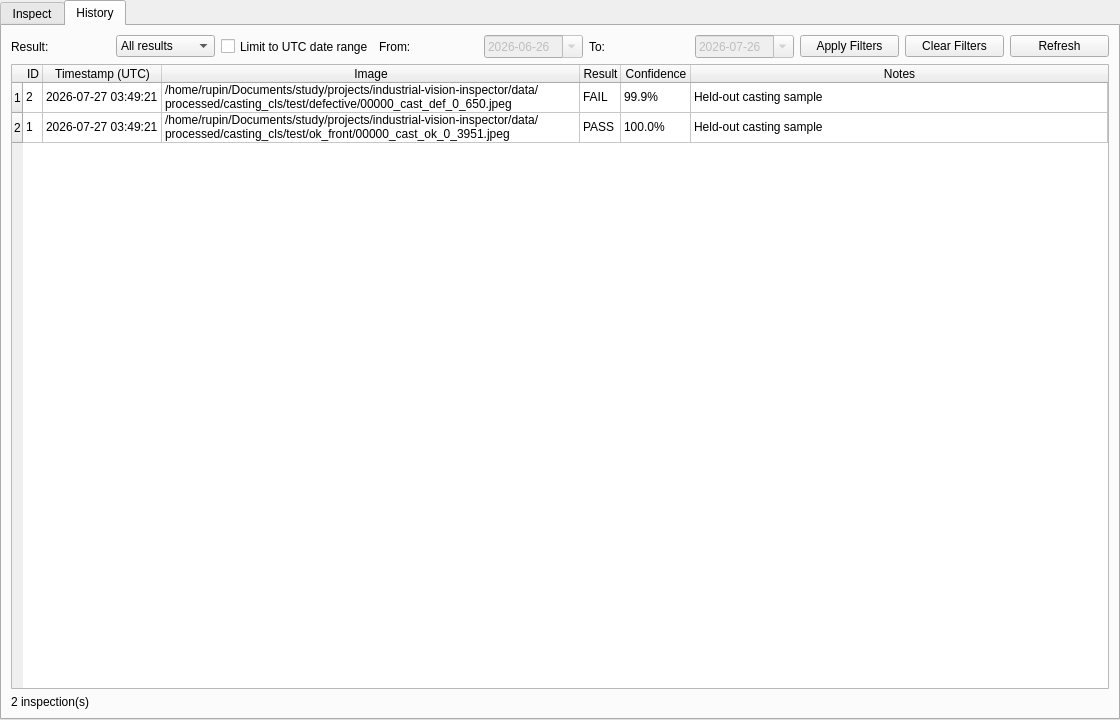
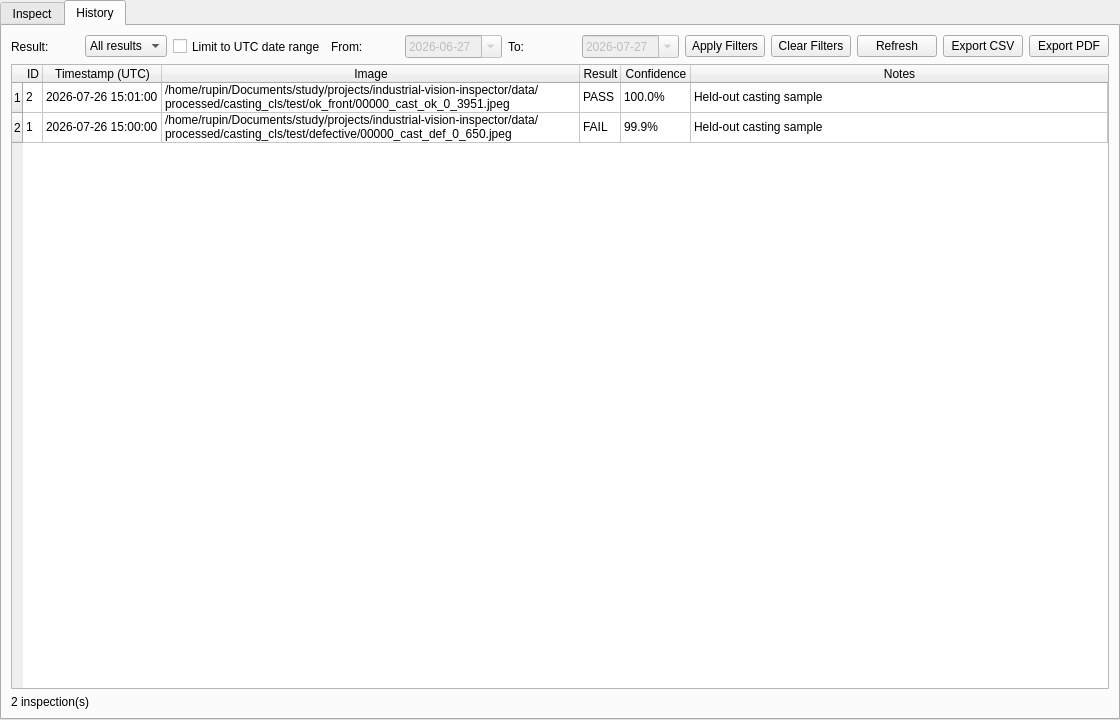
docs: document inspection report exports

diff --git a/README.md b/README.md
@@ -1,6 +1,6 @@
 # Industrial Vision Inspector
 
-Industrial Vision Inspector is a desktop quality-control project for classifying top-view casting images as defective or acceptable. The target dataset contains submersible pump impeller images captured from one product type and camera angle. The project includes reproducible data preparation, OpenCV ingestion, a YOLOv8 classification wrapper, held-out evaluation, SQLite inspection history, and a PySide6 operator interface. Reporting will be added in a later verified phase.
+Industrial Vision Inspector is a desktop quality-control project for classifying top-view casting images as defective or acceptable. The target dataset contains submersible pump impeller images captured from one product type and camera angle. The project includes reproducible data preparation, OpenCV ingestion, a YOLOv8 classification wrapper, held-out evaluation, SQLite inspection history, a PySide6 operator interface, and CSV/PDF reporting.
 
 Manual visual inspection can vary between operators and across a long shift. A small classification model can provide a consistent first-pass decision and preserve each result for review. This project is intentionally a demonstrator, not a claim of production-line readiness.
 
@@ -20,7 +20,7 @@ flowchart LR
     D --> F[CSV and PDF reports]
 ```
 
-The ingestion, classification, storage, and UI components use one inspection path. Datasets, trained weights, captured webcam frames, and inspection databases are generated locally and intentionally excluded from Git; the compact evaluation metrics and confusion matrix are versioned for reproducibility.
+The ingestion, classification, storage, UI, and reporting components use one inspection path. Datasets, trained weights, captured webcam frames, inspection databases, and generated reports are intentionally excluded from Git; the compact evaluation metrics and confusion matrix are versioned for reproducibility.
 
 ## Setup
 
@@ -29,7 +29,7 @@ Use Python 3.11 or 3.12. From the repository root:
 ```bash
 python -m venv .venv
 source .venv/bin/activate
-python -m pip install numpy opencv-python pytest kaggle ultralytics matplotlib PySide6
+python -m pip install numpy opencv-python pytest kaggle ultralytics matplotlib PySide6 reportlab
 ```
 
 Dependency versions will be pinned during Phase 6, after the complete runtime dependency set is known. Ultralytics installs PyTorch as a dependency. On a CPU-only Linux machine, install the smaller CPU wheels first to avoid downloading unused CUDA libraries:
@@ -144,6 +144,14 @@ python scripts/run_app.py
 
 The Inspect tab accepts one image, every supported image directly inside a folder, or a captured webcam frame. Folder work runs outside the GUI thread and writes each completed result to `data/inspections.db`. Webcam inference is operator-triggered rather than continuous; captured frames are saved under `data/captures/` so history rows refer to real files. The History tab shows the stored UTC timestamp, image path, result, confidence, and notes, with result and UTC date filters.
 
+### Export inspection reports
+
+Apply any result or UTC date filters in the History tab, then choose **Export CSV** or **Export PDF**. Both actions export the currently filtered records.
+
+- CSV uses the standard library and includes ID, UTC timestamp, image path, result, confidence, and notes.
+- PDF uses one ReportLab template with the inspection date range, pass/fail counts, defect rate, outcome chart, and up to four readable example images.
+- Missing example image files are omitted from the PDF, but their inspection rows still contribute to the summary counts.
+
 ![Inspect view with a defective casting](docs/screenshots/inspect-view.png)
 
 ![SQLite-backed inspection history](docs/screenshots/history-view.png)
@@ -154,7 +162,8 @@ The Inspect tab accepts one image, every supported image directly inside a folde
 2. Inspect known acceptable and defective held-out images; confirm the badge, confidence, and approximate defective highlight.
 3. Select `tests/fixtures/` as a folder; confirm both images complete and two history rows appear.
 4. Start the webcam, inspect one frame, and confirm the saved capture appears in history. This step requires local camera permission.
-5. Filter history by result and UTC date, then restart the app and confirm the rows persist.
+5. Filter history by result and UTC date, export both formats, and confirm each output opens correctly.
+6. Restart the app and confirm the history rows persist.
 
 For a headless startup check that loads the real weights and exits automatically:
 
